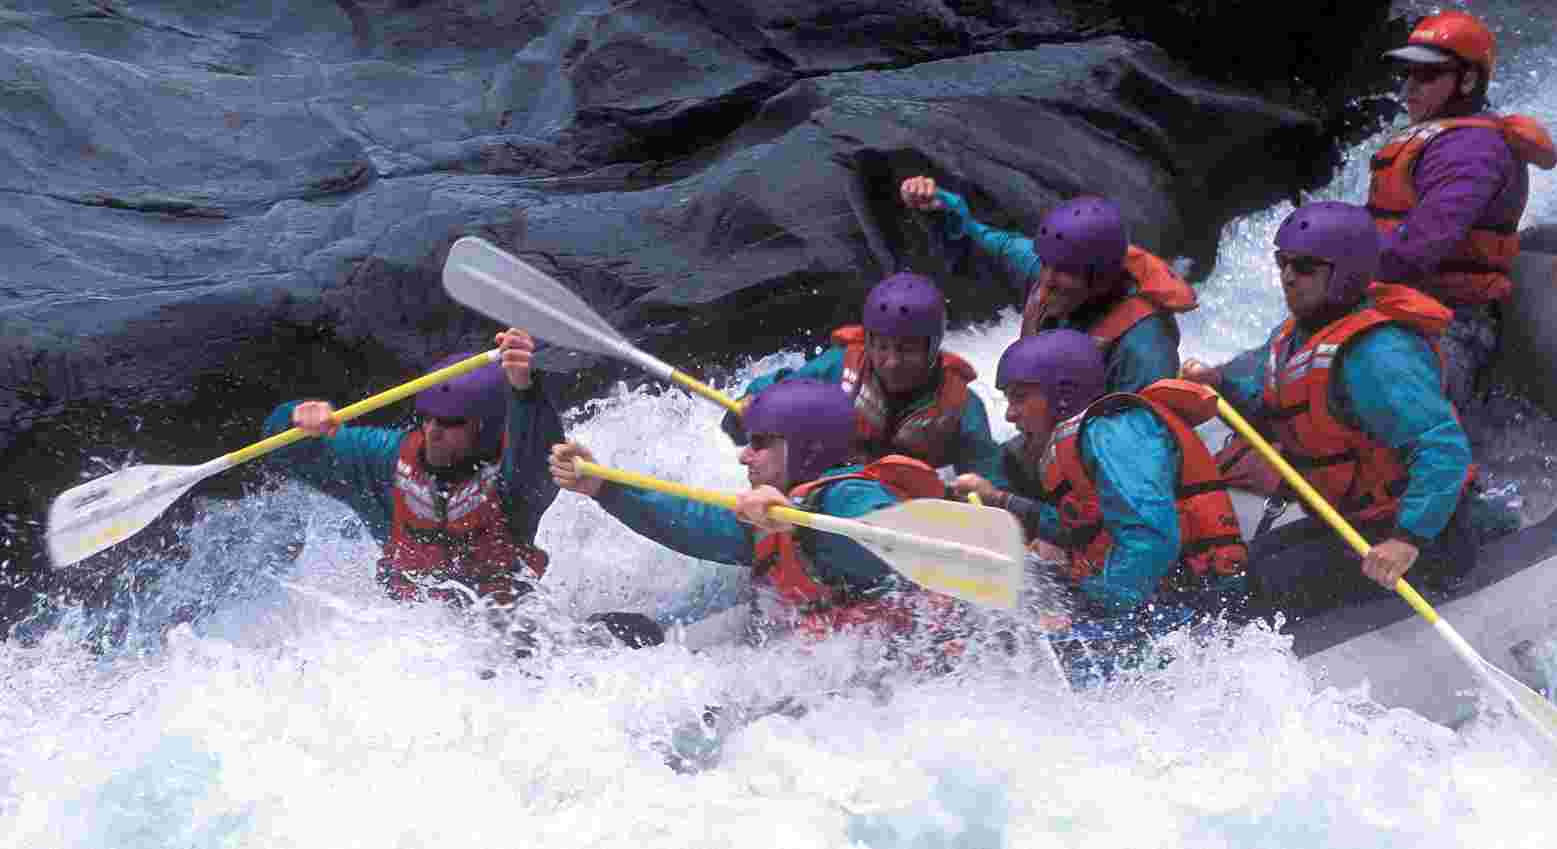
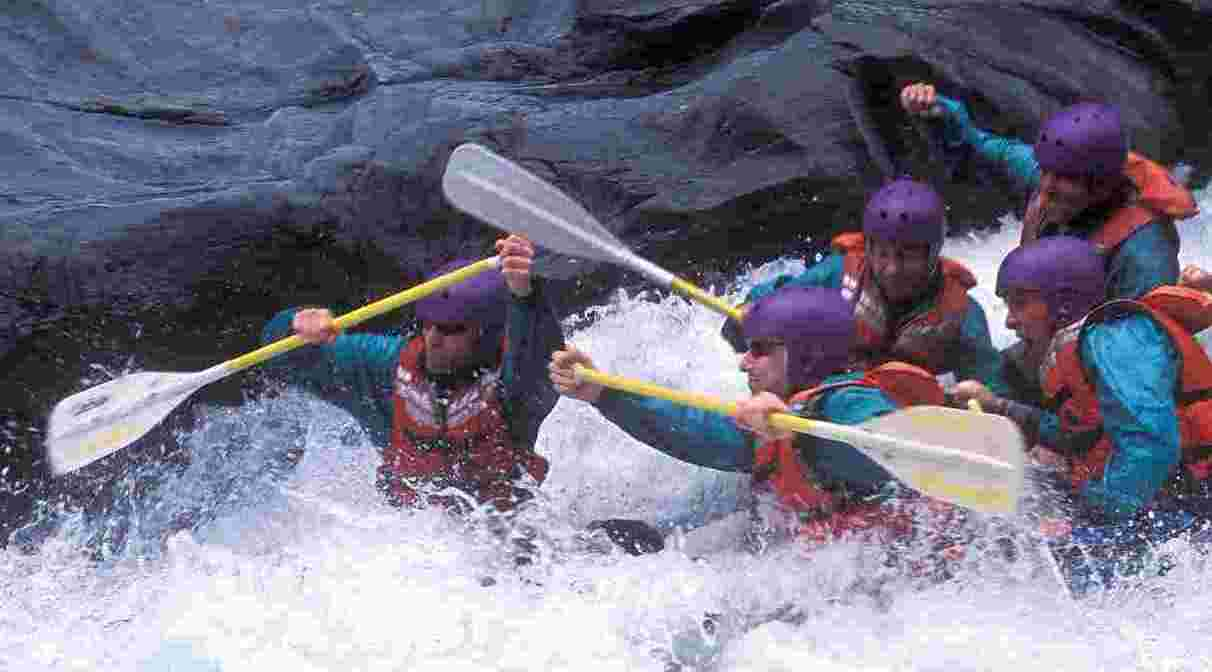
upgrade on table

diff --git a/wwr/styles/rafting.css b/wwr/styles/rafting.css
@@ -80,7 +80,7 @@ header nav ul {
     display: flex;
     justify-content: flex-end;
     flex-wrap: wrap;
-    gap: 0.5rem 1.5rem;
+    gap: 0.5rem 10rem;
 }
 
 header nav a {
@@ -107,15 +107,15 @@ body:not(.home) main {
 }
 
 :where(body:not(.home) main) :where(p, section, article) {
-    margin: 10px;
-    padding: 8px;
+    margin: 2px;
+    padding: 30px;
 }
 
 body:not(.home) main section {
     background-color: var(--accent2-color);
     border: 1px solid var(--primary-color);
-    border-radius: 4px;
-    padding: 16px;
+    border-radius: 2px;
+    padding: 8px;
 }
 
 footer {
@@ -326,6 +326,19 @@ footer {
     width: 100%;
     object-fit: cover;
     border-radius: 2px;
+}
+
+.trip-image {
+    width: 100%;
+    height: 300px;
+    object-fit: cover;
+}
+
+table,
+th,
+td {
+    border: 1px solid black;
+    border-collapse: collapse;
 }
 
 .gallery img {

diff --git a/wwr/index.html b/wwr/index.html
@@ -33,7 +33,7 @@
             <div class="hero-text">
                 <h1>Ride the river. Remember the rush.</h1>
                 <p>Guided whitewater rafting for first-timers, families and seasoned paddlers.</p>
-                <a href="trips.html" class="btn">View our trips</a>
+                <a href="trips.html" class="btn">Explore our trips</a>
             </div>
         </section>
         <section class="highlights">
